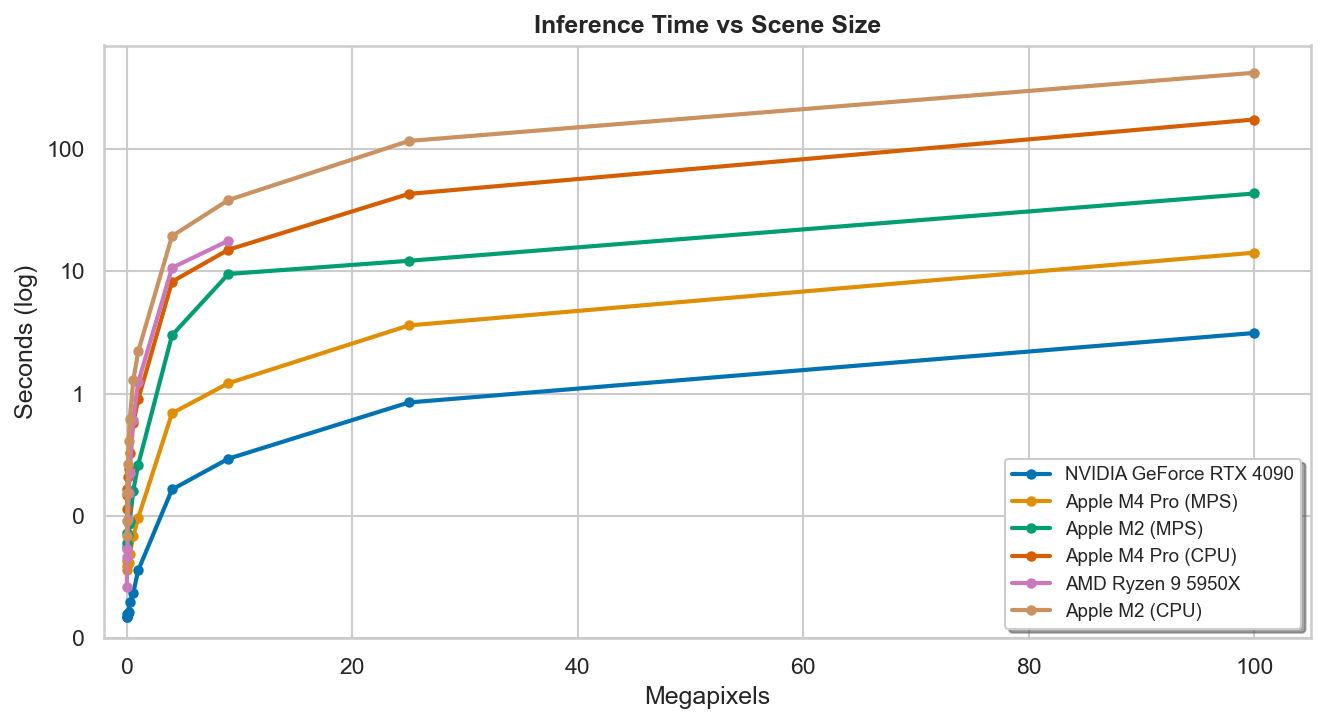
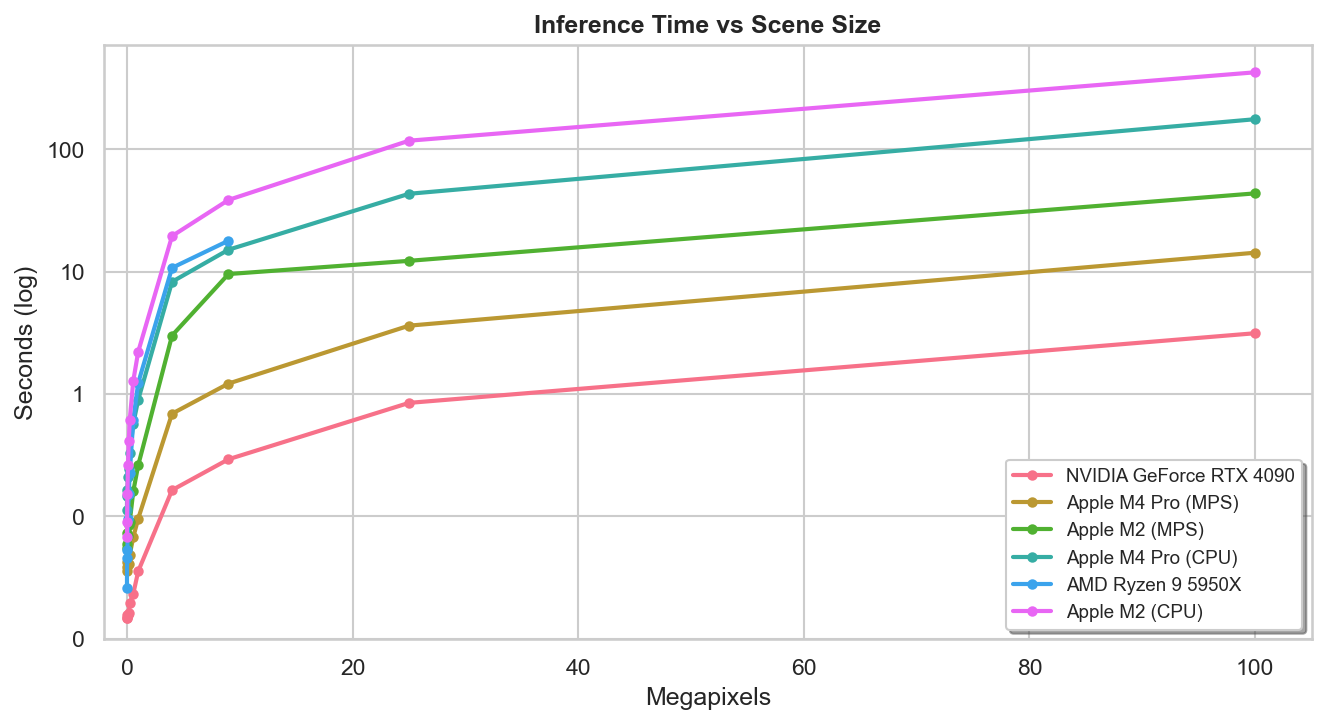
new graph

diff --git a/benchmarking/generate_docs_table.py b/benchmarking/generate_docs_table.py
@@ -150,7 +150,6 @@ def make_plot(all_data: list[dict]) -> None:
     PLOT_PATH.parent.mkdir(parents=True, exist_ok=True)
 
     sns.set_theme(style="whitegrid", context="notebook")
-    palette = sns.color_palette("colorblind")
 
     fig, ax = plt.subplots(figsize=(9, 5))
 
@@ -203,9 +202,9 @@ def make_plot(all_data: list[dict]) -> None:
 
     series.sort(key=lambda s: s[0])
 
+    palette = sns.color_palette("husl", len(series))
     for i, (_, label, megapixels, times) in enumerate(series):
-        color = palette[i % len(palette)]
-        ax.plot(megapixels, times, "-o", label=label, color=color, lw=2, ms=4)
+        ax.plot(megapixels, times, "-o", label=label, color=palette[i], lw=2, ms=4)
 
     ax.set_yscale("log")
     ax.set_xlim(left=-2)
